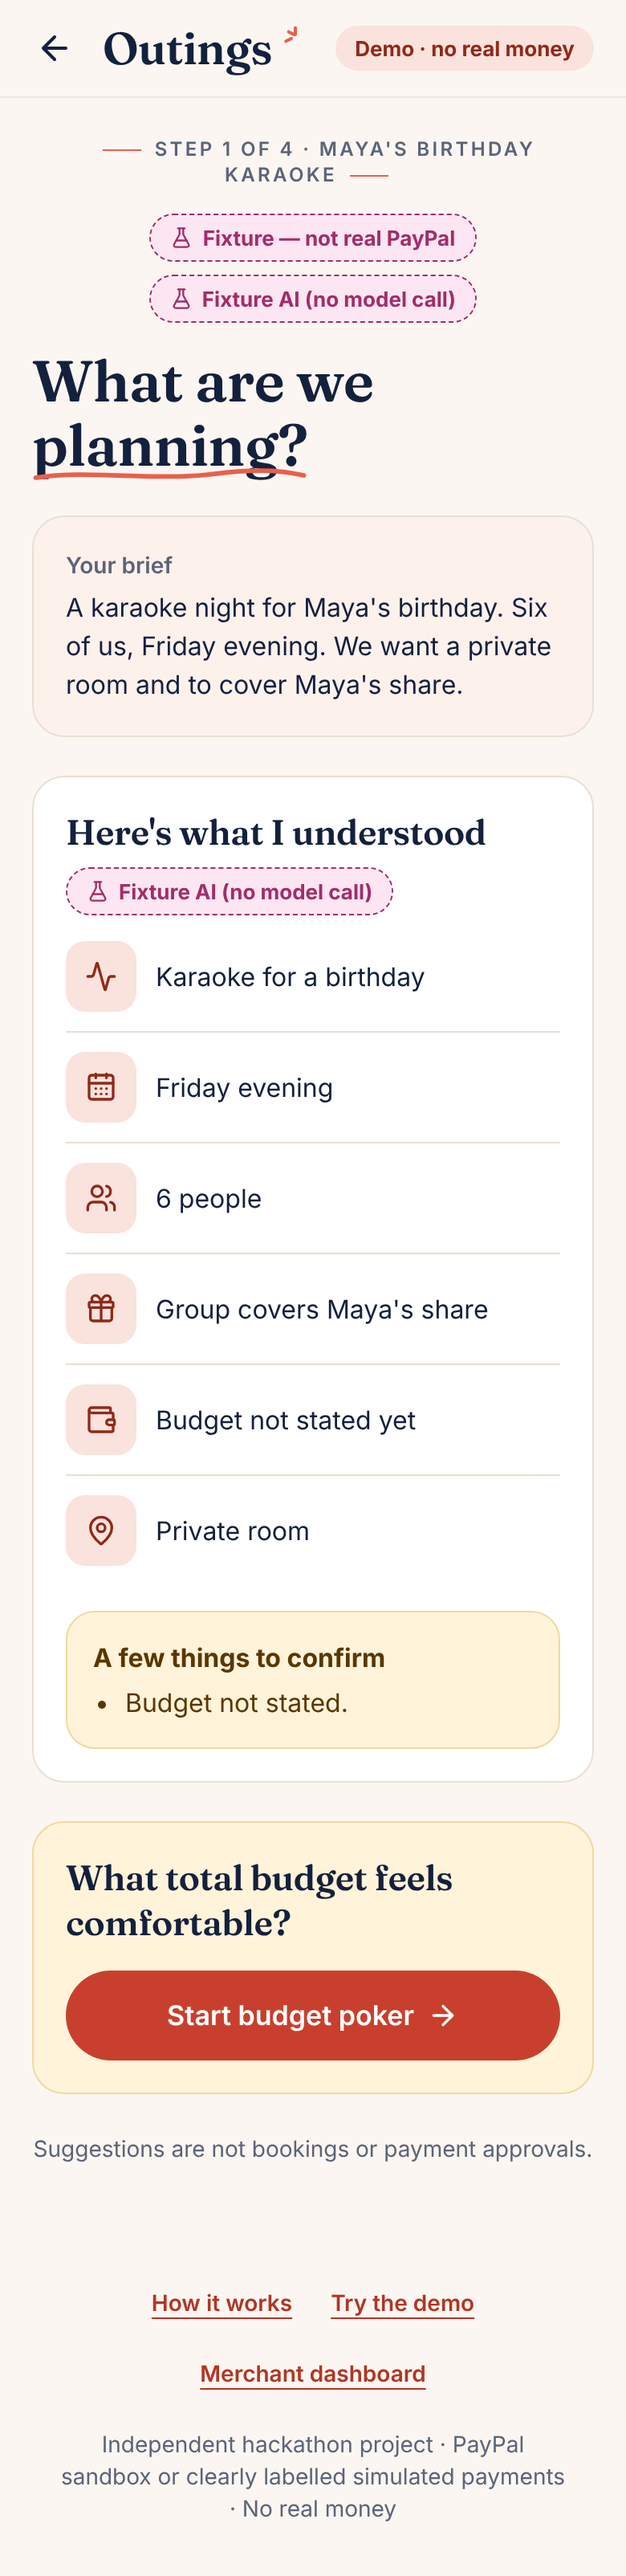
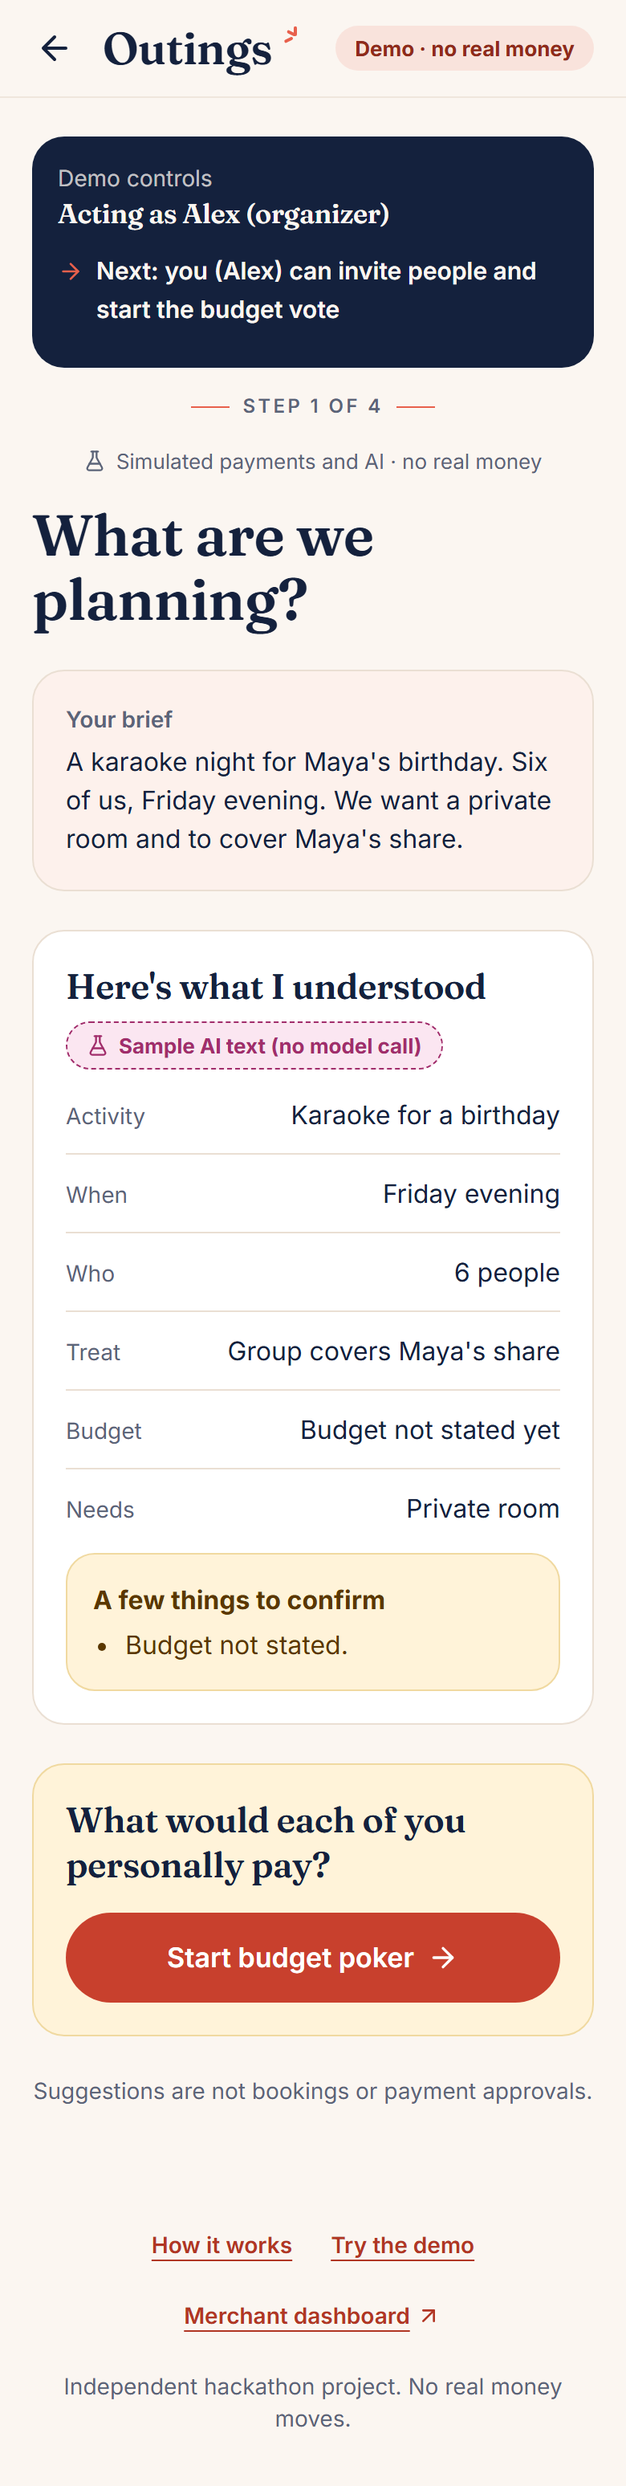
README: shorter and friendlier, with screenshots of the final UI
- README rewritten around one worked example (the $100 karaoke room),
  with the six steps, fewer words and current numbers.
- Screenshots re-shot from the production build by the e2e suite, so
  they show per-person budget poker and the "Simulated" / "Sample"
  labels. New: a landing-page hero, a cropped reveal and a cropped pair
  of venue cards (helper `shotAround` clips a full-page shot to the
  elements a picture is there to show).
- Docs: how the prompts are kept consistent (ARCHITECTURE), and current
  test counts (TESTING, JUDGE_GUIDE, HACKATHON_SUBMISSION).

Verified on this commit: tsc and eslint clean; vitest 527/527 in 44
files; Playwright 8/8 (production build, simulated payments and AI).

diff --git a/tests/e2e/karaoke.spec.ts b/tests/e2e/karaoke.spec.ts
@@ -16,6 +16,7 @@ import {
   newPage,
   openInvitation,
   shot,
+  shotAround,
   tickUntil,
   viewOf,
 } from "./helpers";
@@ -38,6 +39,14 @@ test("karaoke for Maya: plan, vote privately, commit, settle at the deadline, me
   contexts.push(org.context);
   pages.Alex = org.page;
   const alex = org.page;
+
+  await test.step("the landing page, as a visitor first sees it", async () => {
+    const visitor = await newPage(browser, DESKTOP);
+    contexts.push(visitor.context);
+    await visitor.page.goto("/");
+    await expect(visitor.page.getByRole("heading", { level: 1 })).toBeVisible();
+    await shot(visitor.page, "landing", { fullPage: false });
+  });
 
   await test.step("(a) organizer writes the brief and sees what the (sample) AI understood", async () => {
     await alex.goto("/new");
@@ -120,7 +129,9 @@ test("karaoke for Maya: plan, vote privately, commit, settle at the deadline, me
     await expect(alex.getByRole("img", { name: /per person, by amount: .*\$20: 3 votes/ })).toBeVisible();
     await expect(alex.getByText("Amounts only. No names.")).toBeVisible();
     await expect(alex.getByText("Sample AI text (no model call)").first()).toBeVisible();
-    await shot(alex, "reveal", { fullPage: false });
+    // The chart, the summary and the proposed amount, without the demo controls above them.
+    const panel = alex.locator("figure").locator("xpath=ancestor::div[contains(@class,'lg:grid-cols')][1]");
+    await shotAround(alex, "reveal", [panel]);
 
     const maya = pages.Maya;
     await maya.reload();
@@ -149,6 +160,9 @@ test("karaoke for Maya: plan, vote privately, commit, settle at the deadline, me
     await expect(room).toContainText("$16.67 each with 6 paying");
     const suite = alex.locator("label").filter({ hasText: "Karaoke party suite" });
     await expect(suite).toContainText("$30 each with 6 paying, above the agreed $20");
+    // Within the agreed amount is a great fit; above it is at most a good one.
+    await expect(room).toContainText("Great fit");
+    await expect(suite).toContainText("Good fit");
     await room.click();
     await expect(room.getByText("Selected", { exact: true })).toBeVisible();
 
@@ -166,6 +180,8 @@ test("karaoke for Maya: plan, vote privately, commit, settle at the deadline, me
     await expect(alex.getByLabel("Minimum payers")).toHaveValue("5");
     await expect(alex.getByText(/^Each payer authorizes up to \$20 by /)).toBeVisible();
     await shot(alex, "sponsor");
+    // The two karaoke options side by side in budget terms: one within what the group agreed, one above it.
+    await shotAround(alex, "venue-cards", [alex.getByRole("heading", { name: "Ranked for your group" }), room, suite]);
   });
 
   await test.step("(b) open commitments with a deadline ~80 s away (server clock)", async () => {

diff --git a/tests/e2e/helpers.ts b/tests/e2e/helpers.ts
@@ -1,4 +1,4 @@
-import { expect, type APIRequestContext, type Browser, type BrowserContext, type Page } from "@playwright/test";
+import { expect, type APIRequestContext, type Browser, type BrowserContext, type Locator, type Page } from "@playwright/test";
 import type { MerchantOutingDetail, OutingView } from "../../lib/contracts/views";
 import { E2E_ENV } from "./env";
 
@@ -18,6 +18,35 @@ export async function shot(page: Page, name: string, opts: { fullPage?: boolean;
     if (top) window.scrollTo(0, 0);
   }, !fullPage && !opts.keepScroll);
   await page.screenshot({ path: `docs/screenshots/${name}.png`, fullPage, animations: "disabled", caret: "hide" });
+}
+
+/** An element's box in page coordinates (not viewport coordinates), so it can clip a full-page screenshot. */
+async function pageBox(target: Locator): Promise<{ left: number; top: number; right: number; bottom: number }> {
+  return target.evaluate((el) => {
+    const r = el.getBoundingClientRect();
+    return { left: r.left + window.scrollX, top: r.top + window.scrollY, right: r.right + window.scrollX, bottom: r.bottom + window.scrollY };
+  });
+}
+
+/**
+ * Like `shot`, but only the area that covers the given elements, with a little breathing room. For the README,
+ * where a whole long page would bury the one thing the picture is there to show.
+ */
+export async function shotAround(page: Page, name: string, targets: readonly Locator[], padding = 24): Promise<void> {
+  if (process.env.E2E_SCREENSHOTS !== "1") return;
+  await page.evaluate(() => document.fonts.ready);
+  const boxes = await Promise.all(targets.map(pageBox));
+  const left = Math.max(0, Math.min(...boxes.map((b) => b.left)) - padding);
+  const top = Math.max(0, Math.min(...boxes.map((b) => b.top)) - padding);
+  const right = Math.max(...boxes.map((b) => b.right)) + padding;
+  const bottom = Math.max(...boxes.map((b) => b.bottom)) + padding;
+  await page.screenshot({
+    path: `docs/screenshots/${name}.png`,
+    fullPage: true,
+    clip: { x: left, y: top, width: right - left, height: bottom - top },
+    animations: "disabled",
+    caret: "hide",
+  });
 }
 
 export async function newPage(browser: Browser, device: typeof MOBILE | typeof DESKTOP): Promise<{ context: BrowserContext; page: Page }> {

diff --git a/README.md b/README.md
@@ -2,21 +2,28 @@
 
 > **Plan together. Commit individually. Pay only when everyone is in.**
 
-**A group outing without anyone fronting the money.** Friends vote privately on a budget, each person authorizes only their maximum share with PayPal, and at the deadline the server either books it and charges each exact share, or releases every hold.
+Group plans die in the group chat. One friend fronts the money, three people go quiet, and nobody wants to be the one who says "that's a bit much for me".
+
+**Outings fixes that.** Friends say privately what they'd each pay, everyone puts a PayPal hold on their own maximum, and at the deadline the server either books it and charges each exact share, or lets every hold go.
 
 Built for the **PayPal AI Hackathon 2026**. PayPal **sandbox** only: no real money moves.
 
 ![Outings landing page](docs/screenshots/landing.png)
 
-**Judges:** the [judge guide](docs/JUDGE_GUIDE.md) gets you through the whole product in about 10 minutes.
+**Judges:** the [judge guide](docs/JUDGE_GUIDE.md) walks you through the whole product in about 10 minutes.
 
-## Why
+## The idea in one karaoke night
 
-| Today | With Outings |
+Six friends want a **$100 karaoke room** for Maya's birthday, and they're covering Maya.
+
+| | What happens |
 |---|---|
-| One friend pays the venue, then chases everyone for weeks. | Nobody fronts anything. Each person's money goes to the venue through PayPal. |
-| Nobody wants to be the one who says "that's too expensive". | **Budget poker:** everyone privately says what they would personally pay, and the reveal shows only how many chose each amount. |
-| Half the group commits, the booking falls through, refunds get messy. | Nobody is charged unless every required person commits by the deadline. |
+| 🗳 **Vote** | Everyone privately answers "What would you personally pay?" Most say **$20**. Nobody sees who said what. |
+| 🧮 **Match** | The app does the sum: $100 ÷ 5 people paying = **$20 each**. Right on budget. |
+| 🔒 **Hold** | Each payer puts a PayPal hold on $20. A hold is not a charge. Maya holds nothing. |
+| ⏰ **Deadline** | Everyone in? Each pays exactly **$20**. Someone missing? Every hold is released and nobody pays. |
+
+And if the crew grows to ten paying? Same $100 room, so each pays **$10** and the other $10 of every hold is released.
 
 ## How it works
 
@@ -24,36 +31,48 @@ Built for the **PayPal AI Hackathon 2026**. PayPal **sandbox** only: no real mon
 flowchart LR
   A["Brief<br/>Claude reads the plan"] --> B["Budget poker<br/>private votes"]
   B --> C["Pick a venue<br/>Claude ranks, organizer decides"]
-  C --> D["Commit<br/>each payer authorizes their maximum"]
+  C --> D["Commit<br/>each payer holds their maximum"]
   D --> E{"Deadline<br/>server job"}
-  E -->|"every required person committed"| F["Capture each exact share<br/>release the rest of each hold"]
-  E -->|"someone required is missing"| G["Void every hold<br/>nobody is charged"]
+  E -->|"every required person committed"| F["Charge each exact share<br/>release the rest of each hold"]
+  E -->|"someone required is missing"| G["Release every hold<br/>nobody is charged"]
 ```
 
-1. **Brief.** The organizer types the plan in their own words, or picks one of five starters. Claude extracts the activity, date, group size and budget.
-2. **Budget poker.** Everyone privately says what they would personally pay. The vote amounts fit the outing (a $60 padel court for four gets $8 to $30 each). The app then compares that with each venue: a fixed total divided by the people paying, so covering a guest raises everyone else's share. The API never returns anyone else's vote, and the reveal needs at least 3 votes.
-3. **Pick a venue.** Claude ranks the venues' offerings against the brief and the agreed budget. The organizer can cover a guest of honour.
-4. **Commit.** Each payer reviews the exact terms and authorizes their maximum through PayPal: a $100 room split by 5 payers is a $20 hold. More payers lower the estimate; nothing is charged yet.
-5. **Deadline.** A durable server job, not a browser timer and not the AI, freezes the roster and decides. It captures penny-exact shares with `final_capture`, or voids every hold. If a capture fails midway it releases the rest and refunds what was taken.
+1. **Brief.** Type the plan in your own words, or pick a starter. Claude pulls out the activity, date, group size and budget.
+2. **Budget poker.** Everyone privately picks what they'd personally pay. The amounts fit the outing, and the API never returns anyone else's vote.
+3. **Reveal.** Needs at least 3 votes. It shows how many chose each amount, never who.
+
+   <img src="docs/screenshots/reveal.png" alt="The reveal: a bar chart of per-person votes and a summary" width="720">
+
+4. **Pick a venue.** Claude ranks the venues. Every card shows your share, and it updates the moment you cover a guest.
+
+   <img src="docs/screenshots/venue-cards.png" alt="Venue cards showing $20 each with 5 paying" width="560">
+
+5. **Commit.** Each payer reviews the exact terms and authorizes their maximum through PayPal. Nothing is charged yet.
+6. **Deadline.** A durable server job, not a browser timer and not the AI, freezes the roster and decides. It charges penny-exact shares, or releases every hold. If a charge fails midway, it releases the rest and refunds what was taken.
+
+<p>
+  <img src="docs/screenshots/budget-poker.png" alt="Budget poker on a phone" width="230">
+  <img src="docs/screenshots/waiting.png" alt="A $20 hold in place, waiting for the deadline" width="230">
+  <img src="docs/screenshots/confirmed.png" alt="The outing confirmed" width="230">
+</p>
 
 Venues see every booking and every dollar in an [AG Studio](docs/research/AG_STUDIO.md) dashboard.
 
-| | | |
-|---|---|---|
-| ![Brief](docs/screenshots/brief.png) | ![Budget poker](docs/screenshots/budget-poker.png) | ![Invitation](docs/screenshots/invitation.png) |
-| ![Waiting](docs/screenshots/waiting.png) | ![Confirmed](docs/screenshots/confirmed.png) | ![Merchant dashboard](docs/screenshots/merchant-dashboard.png) |
+![Merchant dashboard](docs/screenshots/merchant-dashboard.png)
 
 ## Where AI helps, and where it stops
 
-Claude reads the brief, suggests budget vote amounts, ranks venues, summarizes the vote, drafts the organizer's plan and turns a venue's question into a dashboard filter. **It never decides money.** Every output is schema-validated and [re-checked](lib/ai/validate.ts) against real data before it is shown, and every payment decision is made by [deterministic rules](lib/domain/policy.ts). Details: [architecture](docs/ARCHITECTURE.md).
+Claude reads the brief, suggests vote amounts, ranks venues, summarizes the vote, drafts the organizer's plan and turns a venue's question into a dashboard filter.
+
+**It never decides money.** Every answer is schema-validated and [re-checked](lib/ai/validate.ts) against real data before anyone sees it. Shares, caps and every payment decision come from [plain rules](lib/domain/policy.ts) with tests. More in the [architecture](docs/ARCHITECTURE.md).
 
 ## What is real
 
 | Piece | Status |
 |---|---|
 | PayPal Orders v2 (authorize, under-capture, void, refund) | **Verified in the PayPal sandbox**, including one full outing settled through the app ([evidence](docs/evidence/README.md)) |
-| Deadline engine, splitting, consent, access control | Real code in every mode; 440 automated tests, most against a real Postgres, plus 6 browser tests ([testing](docs/TESTING.md)) |
-| Claude | Real API when `OUTINGS_ANTHROPIC_API_KEY` is set; otherwise a deterministic parser labelled **Sample AI text (no model call)**. Real calls not yet verified. |
+| Deadline engine, splitting, consent, access control | Real code in every mode. 527 automated tests, most against a real Postgres, plus 8 browser tests ([testing](docs/TESTING.md)) |
+| Claude | Real API when `OUTINGS_ANTHROPIC_API_KEY` is set. Otherwise a deterministic parser labelled **Sample AI text (no model call)**. Real calls are not yet verified. |
 | Payments without PayPal keys | A simulator labelled **Simulated · not real PayPal** on every screen |
 | Venues | Five fictional Copenhagen venues with a demo catalogue. A confirmed outing means the group's money was collected for the venue, not that a real venue reserved anything. |
 
@@ -74,11 +93,11 @@ npm run dev        # http://localhost:3000
 npm run worker     # second terminal: the deadline worker
 ```
 
-Then open `/new`, pick a starter, and use the **Acting as** bar to play every person from one browser. The [judge guide](docs/JUDGE_GUIDE.md) has the full path, PayPal sandbox setup and the test commands.
+Open `/new`, pick a starter, and use the **Acting as** bar to play every person from one browser. The [judge guide](docs/JUDGE_GUIDE.md) has the full path, PayPal sandbox setup and the test commands.
 
 ## Built with
 
-Next.js 16 · TypeScript (strict) · Postgres 16 with Drizzle · PayPal Orders v2 and Payments v2 · Claude (structured outputs) · AG Studio and AG Grid · Vitest and Playwright
+Next.js 16 · TypeScript (strict) · Postgres 16 with Drizzle · PayPal Orders v2 and Payments v2 · Claude Sonnet 5.5 (structured outputs) · AG Studio and AG Grid · Vitest and Playwright
 
 ## Docs
 

diff --git a/docs/HACKATHON_SUBMISSION.md b/docs/HACKATHON_SUBMISSION.md
@@ -44,7 +44,7 @@ Payments go directly to the experience merchant; the organizer never receives th
 | AI | Anthropic Claude with structured outputs, validated by zod; a deterministic stand-in labelled "Sample AI text (no model call)" when no key is set |
 | Merchant UI | AG Studio with AG Grid (Community for the drill-down grid) |
 | Worker | `npm run worker` loop, or an authenticated `POST /api/cron/tick` from any scheduler |
-| Tests | 440 Vitest tests in 35 files against a real Postgres database, plus Playwright end-to-end specs (see [TESTING.md](TESTING.md)) |
+| Tests | 527 Vitest tests in 44 files, most against a real Postgres database, plus Playwright end-to-end specs (see [TESTING.md](TESTING.md)) |
 
 The money logic lives in a small pure domain layer (integer minor units, equal split, cap, terms hash, settle-or-cancel decision) so it can be tested exhaustively. Provider calls never run inside a database transaction, and every provider mutation has a durable outbox row with a stable request id.
 
@@ -97,7 +97,7 @@ AG Studio licensing: AG Grid's [6 Nov 2026 post](https://www.ag-grid.com/blog/bu
 - Three independent audits whose confirmed defects were fixed with regression tests in `tests/audit`, `tests/audit2` and `tests/audit3`.
 - Hardening beyond the happy path: rate limiting keyed on `TRUSTED_PROXY_HOPS`, the PayPal payee read from the merchant row, merchant timezone carried in rows, merchant sessions that expire after 12 h, and no organizer cancel after the deadline.
 - A compensation path that can be watched in one click and is covered by a browser test (`tests/e2e/compensation.spec.ts`).
-- Current verified results: 440 Vitest tests (35 files) pass; 6 Playwright end-to-end tests (karaoke settle, holdout cancel, organizer cancel, demo hub, capture-failure compensation, big-group under-capture) pass; eslint and `tsc` clean; `next build` passes. These run in FIXTURE modes. Separately, against the real PayPal sandbox: the adapter passes `scripts/paypal-smoke.ts`, and one full outing settled through the app with three under-captures that PayPal's records confirm.
+- Current verified results: 527 Vitest tests (44 files) pass; 8 Playwright end-to-end tests (karaoke settle, holdout cancel, organizer cancel, demo hub, capture-failure compensation, big-group under-capture, dashboard refresh, `/setup` access) pass; eslint and `tsc` clean; `next build` passes. These run in FIXTURE modes. Separately, against the real PayPal sandbox: the adapter passes `scripts/paypal-smoke.ts`, and one full outing settled through the app with three under-captures that PayPal's records confirm.
 
 ## What we learned
 

diff --git a/docs/ARCHITECTURE.md b/docs/ARCHITECTURE.md
@@ -115,9 +115,11 @@ The model extracts facts and drafts suggestions; deterministic code validates ev
 
 - `extractBrief`: a budget the brief does not state is dropped; categories must exist in the catalogue.
 - `proposeOfferings`: only real, active offerings that fit the group survive; prices come from the database.
-- `summarizeReveal`: sees an anonymous vote distribution; an out-of-range suggested total is replaced by the median.
+- `summarizeReveal`: sees an anonymous vote distribution; an out-of-range suggested amount is replaced by the median.
 - `draftPlan`: `validatePlanDraft` drops (never fixes) invalid offerings, times, deadlines and sponsors.
 - `dashboardQuery` and the [AG Studio proxy](../app/api/merchant/ai/studio/route.ts): read-only filters and view tools only; no capture, void, refund or edit tool exists.
+
+**Consistent answers.** The model is Claude Sonnet 5.5 at `low` effort with structured output (`output_config.format`), which fixes the shape of every answer. Sonnet 5.5 rejects sampling parameters, so there is no temperature to turn down; the [prompts](../lib/ai/prompts.ts) get consistency from structure instead, following Anthropic's prompting guidance for this model. Each task lists its decision rules in the order to apply them, with a tie-break (the ranker has an explicit category, group, budget and needs rubric; the planner uses the same slot and deadline rules as the sample planner). The tasks with judgement calls carry worked examples. Ranking and planning end with a think-first line and get a larger `max_tokens`, because with structured output the model can only reason in its thinking, which counts toward that limit. The effect on the real API is not yet measured: [ai-smoke.ts](../scripts/ai-smoke.ts) needs the owner's key.
 
 Budget votes are per person ("what would you personally pay?"). The vote amounts are sized per outing by `chooseBudgetOptions` in [budget-options.ts](../lib/domain/budget-options.ts). The AI's five suggested amounts are used only if they are whole dollars, strictly increasing, at most 10x apart, and contain the app's own anchor, which also catches a model answering with whole-group totals. Otherwise the code builds 0.5x, 0.75x, 1x, 1.5x, 2x around that anchor: the brief's per-person budget, else its total divided by the people paying, else the lower median of what matching catalogue offerings cost per person, else $20.
 

diff --git a/docs/TESTING.md b/docs/TESTING.md
@@ -1,6 +1,6 @@
 # Testing
 
-440 Vitest tests in 35 files (most against a real Postgres) and 6 Playwright browser tests pin the money, consent and access rules; the real PayPal sandbox is checked by two scripts, real Claude is not checked yet.
+527 Vitest tests in 44 files (most against a real Postgres) and 8 Playwright browser tests pin the money, consent and access rules; the real PayPal sandbox is checked by two scripts, real Claude is not checked yet.
 
 Related: [README](../README.md) · [judge guide](JUDGE_GUIDE.md) · [architecture invariants](ARCHITECTURE.md) · [security and limitations](SECURITY_AND_LIMITATIONS.md) · [PayPal sandbox evidence](evidence/README.md)
 
@@ -60,7 +60,7 @@ Vitest and Playwright last ran on 11 Nov 2026 on the owner's Windows 11 machine 
 | Check | Result |
 |---|---|
 | `tsc --noEmit`, `eslint` | Clean |
-| Vitest | 524 tests in 44 files pass |
+| Vitest | 527 tests in 44 files pass |
 | Playwright (production build, Chromium) | 8/8 pass: karaoke settle, holdout cancel, organizer cancel, demo hub, capture-failure compensation, big-group under-capture, dashboard refresh keeps AG Studio, `/setup` access |
 | PayPal adapter, real sandbox ([paypal-smoke.ts](../scripts/paypal-smoke.ts)) | All expectations met: authorize, $10-of-$20 final capture, capture replay idempotent, void then capture refused with `AUTHORIZATION_VOIDED`, capture, refund ([evidence](evidence/README.md)) |
 | One full outing through the app, real sandbox ([paypal-verify-outing.ts](../scripts/paypal-verify-outing.ts)) | Three participants, three $50 holds (all approved with one sandbox buyer account), $33.34 / $33.33 / $33.33 captured at the deadline; PayPal's records match the app's (`allMatch: true`) |

diff --git a/docs/JUDGE_GUIDE.md b/docs/JUDGE_GUIDE.md
@@ -78,7 +78,7 @@ The services and the settlement engine are the real ones; only the payment provi
 |---|---|---|---|
 | Payments | Simulator, labelled "Simulated · not real PayPal" | PayPal sandbox, Orders v2 | **Yes, 7 Nov 2026:** authorize, $10-of-$20 final capture, idempotent replay, void, refund, and one full outing settled through the app ([evidence](evidence/README.md)) |
 | AI | Deterministic parser, labelled "Sample AI text (no model call)" | Claude, structured outputs | Not yet against the real API; tests use a mocked SDK |
-| Deadline, splitting, consent, access | Real code | Real code | 440 automated tests and 6 browser tests ([testing](TESTING.md)) |
+| Deadline, splitting, consent, access | Real code | Real code | 527 automated tests and 8 browser tests ([testing](TESTING.md)) |
 | Demo stories on `/demo` | Simulated, always | Simulated, always | Real services, simulated provider |
 
 Not verified: PayPal webhook signatures against real deliveries, PayPal negative testing, and any hosted deployment. `GET /api/health` shows the active modes without secrets. Limits and threat model: [security and limitations](SECURITY_AND_LIMITATIONS.md).
